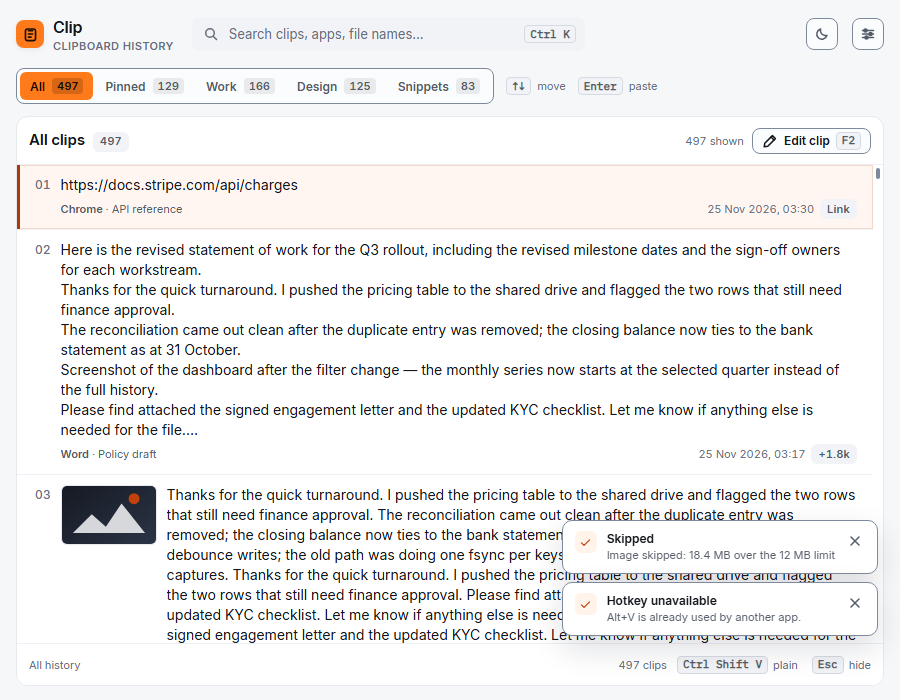
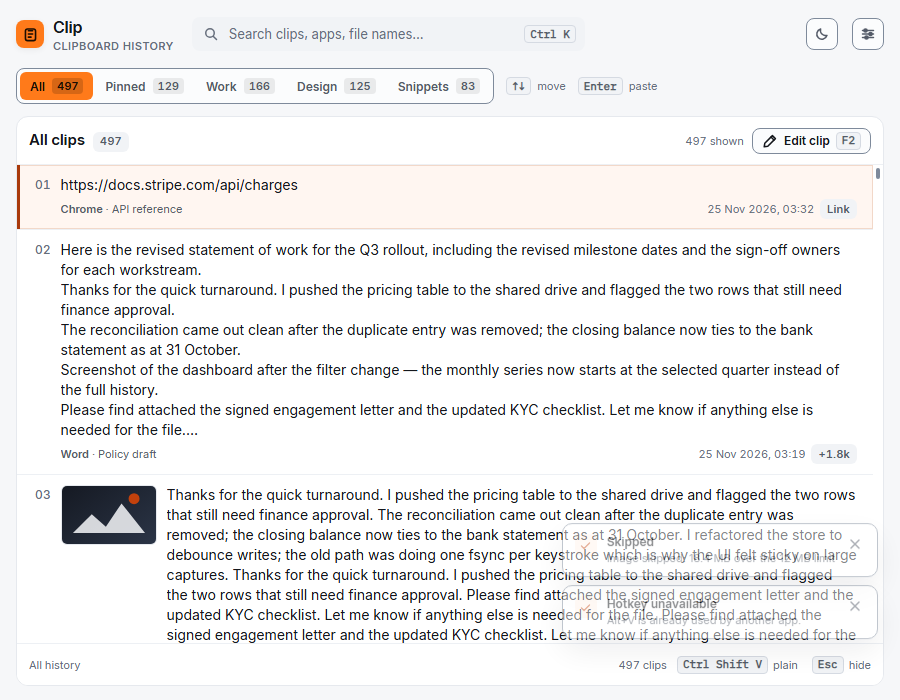
ui: a bare id in the captured reorder keeps the row's fields
The host sends the full row, but a reorder notification may carry only the id. Merge over the existing row instead of replacing it, and treat an item already in the active list as belonging to that view. Proved with the preview injector: {id:10} keeps its time/provenance and moves to row 01; the full DTO still refreshes time and title.

Changed region(s): [[0.6222, 0.72, 0.9644, 0.93]]

diff --git a/UI/web/src/App.tsx b/UI/web/src/App.tsx
@@ -42,9 +42,12 @@ const isNotReady = (error: unknown) => /unknown method|not wired|not ready|phase
 /** A re-copied clip keeps its id; the store moves it to the top, so the row must move too. */
 function moveToTop(rows: ClipItem[], item: ClipItem): ClipItem[] {
   const at = rows.findIndex((row) => row.id === item.id)
-  if (at < 0) return [item, ...rows]
-  if (at === 0) return [item, ...rows.slice(1)]
-  return [item, ...rows.slice(0, at), ...rows.slice(at + 1)]
+  // A reorder notification may carry only the id; a full row carries a time and every field.
+  const merged = at >= 0 ? (item.time ? { ...rows[at], ...item } : rows[at]) : item.time ? item : null
+  if (!merged) return rows
+  if (at < 0) return [merged, ...rows]
+  if (at === 0) return [merged, ...rows.slice(1)]
+  return [merged, ...rows.slice(0, at), ...rows.slice(at + 1)]
 }
 
 export default function App() {
@@ -219,6 +222,8 @@ export default function App() {
   const visible = found?.items ?? items
   const visibleRef = useRef(visible)
   visibleRef.current = visible
+  const itemsRef = useRef(items)
+  itemsRef.current = items
 
   useEffect(() => {
     if (selectedId != null && visible.some((clip) => clip.id === selectedId)) return
@@ -365,7 +370,8 @@ export default function App() {
         if (event === 'captured') {
           const item = data as ClipItem | undefined
           if (!item || typeof item.id !== 'number') return
-          const belongs = tab === null ? item.tabId == null : item.tabId === tab
+          const known = itemsRef.current.some((row) => row.id === item.id)
+          const belongs = known || (tab === null ? item.tabId == null : item.tabId === tab)
           if (!belongs) return
           // A copy that already exists is reordered by the store; move that row and refresh its
           // fields instead of ignoring it. Selection is a separate id, so it does not move.

diff --git a/docs/design-evidence/s4a/EVIDENCE.md b/docs/design-evidence/s4a/EVIDENCE.md
@@ -48,9 +48,10 @@ at the top, the new row became row 01 and scrollTop stayed 0.
 
 Re-copy of an existing id (the store's dedupe bump, sent as `captured` with the same id): clip 10 moved
 from index 4 to index 0, its time changed 01:38 → 03:30 and its provenance title became
-`Recaptured · …`; `shown` stayed 497, selection stayed on id 1, scrollTop stayed 0. While scrolled to
-420 px, re-copying clip 11 (below the fold) moved scrollTop to 521 px (the moved row's 101 px) and the
-anchor row id 5 stayed at −110 px with selection on id 1: the data moved, the viewport did not.
+`Recaptured · …`; `shown` stayed 497, selection stayed on id 1, scrollTop stayed 0. A bare `{id}`
+reorder keeps the existing row's fields and only moves it. While scrolled to 420 px, re-copying clip 11
+(below the fold) moved scrollTop to 521 px (the moved row's 101 px) and the anchor row id 5 stayed at
+−110 px with selection on id 1: the data moved, the viewport did not.
 
 `skipped` shows `Skipped` + the host's reason (`Image skipped: 18.4 MB over the 12 MB limit`).
 `hotkeyFailed` shows `Hotkey unavailable` + `Alt+V is already used by another app.` Both are quiet
